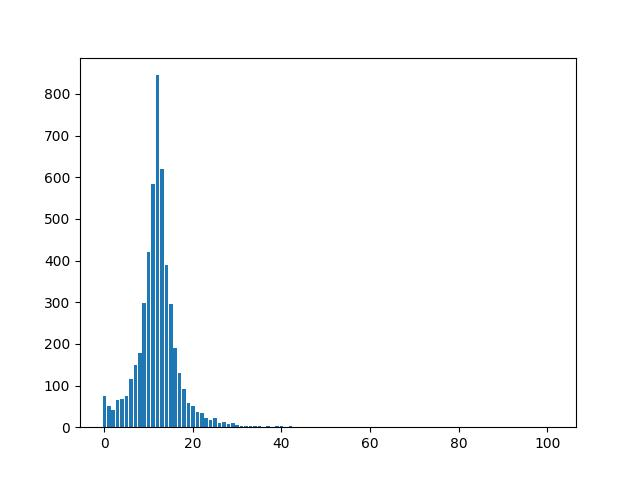
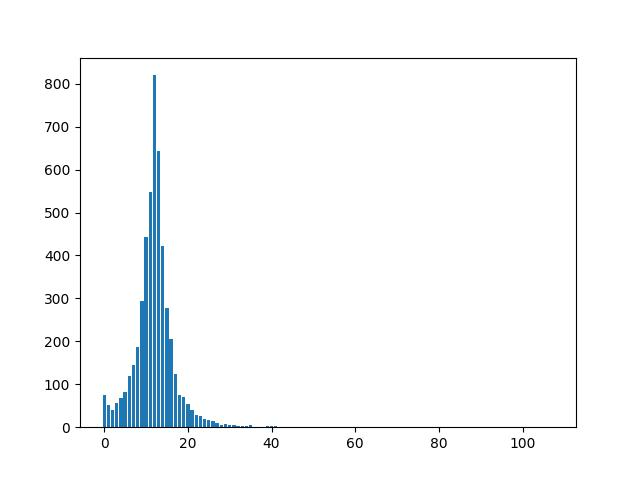
update reweight tool

diff --git a/tools/analysis/re-weight.py b/tools/analysis/re-weight.py
@@ -8,7 +8,24 @@ from collections import defaultdict
 import torch
 import math
 
-K = 20
+K = 13
+
+
+"""
+8: 7700
+9: 7718
+10: 7729
+11: 7732
+12: 7700  
+13: 7599
+
+
+经验： 比 total / num_classes 小一点点 
+    
+    eg. 60000 / 5000 = 12  取 10-11
+        90000 / 1500 = 16  取 14-15
+
+"""
 
 CLASSES = [f"{i:0>4d}" for i in range(5000)]
 
@@ -70,6 +87,8 @@ def main():
     
     data_dict = load_pkl(args.pkl)
     result_list, less_count_classes  = plot_labels(data_dict)
+    pred_labels = np.array([int(r[1]) for r in result_list])
+    print(pred_labels.shape)
 
     all_soreces= np.stack([r[2] for r in result_list], axis=0)
     
@@ -78,6 +97,7 @@ def main():
         for classname in classname_list:
             class_idx = int(classname)
             soreces = all_soreces[:, class_idx]
+            soreces[pred_labels==class_idx] = 0
             topk = K - count
             indxs = np.argpartition(soreces, -topk)[-topk:]
             for ind in indxs:
